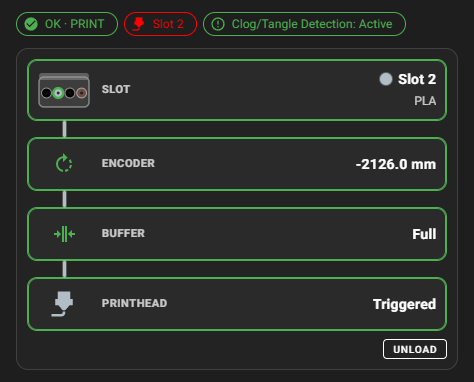
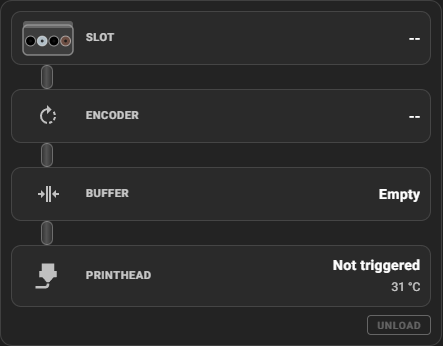
docs(k2-openhost): live filament path with PTFE tube
Document the PTFE tube that fills as far as the sensors report, the live
load/unload progress driven by the backend "operation" status, the
printhead hotend temperature and the instant printhead sensor; refresh the
filament path and panel screenshots (idle, loading, printing, unloading).

diff --git a/docs/K2_CFS.md b/docs/K2_CFS.md
@@ -54,28 +54,55 @@ Header buttons: filament library, RFID scan of all populated slots, unload, and 
 
 ## 2. Filament path
 
-| Idle                                                                                       | Printing (simulated)                                                                                     |
-| ------------------------------------------------------------------------------------------ | -------------------------------------------------------------------------------------------------------- |
-| <img src="images/k2-openhost/cfs-path-idle-wide.png" alt="Filament path idle" width="420"> | <img src="images/k2-openhost/cfs-path-printing-wide.png" alt="Filament path while printing" width="420"> |
+| Idle                                                                                                     | Loading (simulated)                                                                                        |
+| -------------------------------------------------------------------------------------------------------- | ---------------------------------------------------------------------------------------------------------- |
+| <img src="images/k2-openhost/cfs-path-idle-wide.png" alt="Filament path idle" width="420">               | <img src="images/k2-openhost/cfs-path-loading-wide.png" alt="Filament path while loading" width="420">     |
+| **Printing (simulated)**                                                                                 | **Unloading (simulated)**                                                                                  |
+| <img src="images/k2-openhost/cfs-path-printing-wide.png" alt="Filament path while printing" width="420"> | <img src="images/k2-openhost/cfs-path-unloading-wide.png" alt="Filament path while unloading" width="420"> |
 
-The path follows the filament from the CFS to the printhead, in the spirit of the _Filament Box_ widget of Jacob10383's K2 firmware. It is driven by `box.load_path`:
+The path follows the filament from the CFS to the printhead, in the spirit of the _Filament Box_ widget of Jacob10383's K2 firmware:
 
-| Stage          | Shows                                                                                                                    | Highlighted when                            |
-| -------------- | ------------------------------------------------------------------------------------------------------------------------ | ------------------------------------------- |
-| **CFS / Slot** | A CFS icon with its four bays in their real filament colours (the active bay is ringed), then the slot name and material | a slot feeds the printhead                  |
-| **Encoder**    | Feed encoder position in mm                                                                                              | the Box tracks a print                      |
-| **Buffer**     | `Empty`, `Partial` or `Full`                                                                                             | filament is in the buffer                   |
-| **Printhead**  | Nozzle icon, `Triggered` / `Not triggered`                                                                               | the printhead filament sensor sees filament |
+| Stage          | Shows                                                                                                                    | Highlighted when                               |
+| -------------- | ------------------------------------------------------------------------------------------------------------------------ | ---------------------------------------------- |
+| **CFS / Slot** | A CFS icon with its four bays in their real filament colours (the loaded bay is ringed), then the slot name and material | a slot feeds the printhead, or is being loaded |
+| **Encoder**    | Feed encoder position in mm                                                                                              | the Box tracks a print                         |
+| **Buffer**     | `Empty`, `Partial` or `Full`                                                                                             | filament is in the buffer                      |
+| **Printhead**  | Nozzle icon, `Triggered` / `Not triggered`, hotend temperature and target                                                | the printhead filament sensor sees filament    |
 
-Stages holding filament get a green outline. They are joined by a line in the loaded filament's colour, and the nozzle icon takes that colour too. Empty links are dashed, and errors turn the stage red. An **Unload** button sits under the path.
+**PTFE tube.** The stages are joined by a translucent PTFE tube. Inside it runs the filament, in the real colour of the spool, and it reaches only as far as the sensors report:
+
+- the CFS slot feeding the path fills the tube from the CFS;
+- filament in the buffer (either limit switch) fills it up to the buffer;
+- the printhead sensor fills it up to the nozzle, which also takes the filament colour.
+
+Very dark or very light filament gets a contrast outline.
+
+**Live loads and unloads.** A load can wait up to 45 s on a single CFS command, and the Box status refresh is paused during operations. The backend therefore publishes an `operation` status that changes at every step. While a load or unload runs:
+
+- a banner shows the step, for example `Loading Slot 4 · Feeding to printhead`;
+- the stage the filament is moving into pulses in the info colour;
+- the tube segment being filled or emptied is animated in the direction of travel.
+
+Steps of a full colour change, such as `flush`, appear in the banner too. The printhead stage reads the Klipper filament sensor object directly, so it changes the moment the filament arrives or leaves. Users who prefer reduced motion get a static view.
+
+| Step                        | Banner text                        | Tube                        |
+| --------------------------- | ---------------------------------- | --------------------------- |
+| `preparing`                 | Preparing                          | unchanged                   |
+| `feeding_to_buffer`         | Feeding to buffer                  | CFS → buffer filling        |
+| `feeding_to_printhead`      | Feeding to printhead               | buffer → printhead filling  |
+| `seating`, `verifying`      | Seating in the extruder, Verifying | full                        |
+| `retracting_from_printhead` | Retracting from printhead          | buffer → printhead emptying |
+| `retracting_to_cfs`         | Retracting to CFS                  | CFS → buffer emptying       |
+
+Stages holding filament get a green outline; errors turn a stage red. An **Unload** button sits under the path.
 
 The buffer value is the state of its two limit switches. Creality's firmware calls them the _empty limit_ and the _full limit_, and an idle unloaded K2 reports `2`, so the UI reads bit 0 as full and bit 1 as empty.
 
-On a narrow panel the stages stack vertically:
+On a narrow panel the stages stack vertically and the tube runs under the icons:
 
-| Idle                                                                                                  | Printing (simulated)                                                                                          |
-| ----------------------------------------------------------------------------------------------------- | ------------------------------------------------------------------------------------------------------------- |
-| <img src="images/k2-openhost/cfs-path-idle-column.png" alt="Vertical filament path idle" width="330"> | <img src="images/k2-openhost/cfs-path-printing-column.png" alt="Vertical filament path printing" width="330"> |
+| Idle                                                                                                  | Loading (simulated)                                                                                         | Printing (simulated)                                                                                          |
+| ----------------------------------------------------------------------------------------------------- | ----------------------------------------------------------------------------------------------------------- | ------------------------------------------------------------------------------------------------------------- |
+| <img src="images/k2-openhost/cfs-path-idle-column.png" alt="Vertical filament path idle" width="260"> | <img src="images/k2-openhost/cfs-path-loading-column.png" alt="Vertical filament path loading" width="260"> | <img src="images/k2-openhost/cfs-path-printing-column.png" alt="Vertical filament path printing" width="260"> |
 
 ## 3. CFS units and slot tiles
 
@@ -264,6 +291,7 @@ Fields used:
 | Field                                                                                       | Purpose                                                                                                                    |
 | ------------------------------------------------------------------------------------------- | -------------------------------------------------------------------------------------------------------------------------- |
 | `slots[]`                                                                                   | physical slots plus the external spool: presence, loaded flag, profile, colour, RFID data, remaining                       |
+| `operation`                                                                                 | running load/unload: active, kind, slot, stage, plus the change-engine step and target (_optional; newer backend_)         |
 | `boxes[]`                                                                                   | one entry per CFS: address, online, status/state codes, own temperature/humidity, slot indices (_optional; newer backend_) |
 | `temp_c`, `humidity_pct`                                                                    | environment of the box on the load path (fallback when `boxes` is missing)                                                 |
 | `load_path`                                                                                 | source slot, encoder, buffer, printhead sensor, clog detection                                                             |
@@ -273,7 +301,9 @@ Fields used:
 | `print_info`, `print_mapping`, `auto_mapping`, `print_mapping_enabled`                      | print-start mapping                                                                                                        |
 | `unload_after_print_enabled`, `rfid_insert_reading_enabled`, `rfid_startup_reading_enabled` | settings switches                                                                                                          |
 
-`boxes[]` and `BOX_SELECT_SLOT` come with the K2-OpenHost integration of Jacob10383's firmware sync 071c813 (`kalico-k2pro` branch `cfs-upstream-071c813`, pending hardware tests). The UI detects both and falls back to slot-index grouping and `T<n>` on older backends.
+The printhead stage also reads `printer.extruder` and `printer['filament_switch_sensor filament_sensor']`.
+
+`boxes[]`, `operation` and `BOX_SELECT_SLOT` come with the K2-OpenHost integration of Jacob10383's firmware sync 071c813 (`kalico-k2pro` branch `cfs-upstream-071c813`, pending hardware tests). The UI detects both and falls back to slot-index grouping and `T<n>` on older backends.
 
 ## 14. Commands sent by the UI
 

diff --git a/README.md b/README.md
@@ -48,24 +48,24 @@ This fork adds a native **Creality CFS** (Creality Filament System) panel and pr
 
 ### What it adds
 
-| Feature              | What you get                                                                                                                                                                             |
-| -------------------- | ---------------------------------------------------------------------------------------------------------------------------------------------------------------------------------------- |
-| **CFS panel**        | One section per CFS unit with its own temperature/humidity and offline state, plus the external spool. Status chips for box state, loaded slot and clog/tangle detection                 |
-| **Filament path**    | CFS → encoder → buffer → printhead, with a CFS icon in the real bay colours, a nozzle that takes the filament colour, and a filament-coloured line through the stages that hold filament |
-| **Slot tiles**       | Colour stripe, RFID remaining gauge, material, name and temperature, source badge (RFID / Library / Spoolman / Manual), active state; load, edit, RFID and reread actions                |
-| **Runout swap**      | Groups of identical spools with order, strategy and remaining filament; the group in use is marked active                                                                                |
-| **Slot editor**      | Brand → Type → Profile → Colour for non-RFID spools, with a preset palette and custom colours                                                                                            |
-| **RFID**             | Read-only tag data, per-slot reread, and a one-click flow to create a profile for an unknown tag                                                                                         |
-| **Filament library** | Read-only Creality/Generic K2-RFID catalog plus custom profiles, with search and brand/material filters                                                                                  |
-| **Print mapping**    | The Print dialog maps every slicer tool to a CFS slot (auto-map + manual choice) and starts with `BOX_PRINT_START`                                                                       |
-| **Any screen**       | Layout follows the panel width (container queries): 4, 2 or 1 tile columns, compact tiles in narrow dashboard columns, larger touch targets                                              |
-| **Several CFS**      | Up to four units, with unit-aware slot names (`Slot 3` with one CFS, `B2·S4` with several)                                                                                               |
+| Feature              | What you get                                                                                                                                                                                                                                             |
+| -------------------- | -------------------------------------------------------------------------------------------------------------------------------------------------------------------------------------------------------------------------------------------------------- |
+| **CFS panel**        | One section per CFS unit with its own temperature/humidity and offline state, plus the external spool. Status chips for box state, loaded slot and clog/tangle detection                                                                                 |
+| **Filament path**    | CFS → encoder → buffer → printhead joined by a PTFE tube with the filament inside in the real spool colour, filled as far as the sensors report and animated live during loads/unloads; CFS icon in the real bay colours, nozzle with hotend temperature |
+| **Slot tiles**       | Colour stripe, RFID remaining gauge, material, name and temperature, source badge (RFID / Library / Spoolman / Manual), active state; load, edit, RFID and reread actions                                                                                |
+| **Runout swap**      | Groups of identical spools with order, strategy and remaining filament; the group in use is marked active                                                                                                                                                |
+| **Slot editor**      | Brand → Type → Profile → Colour for non-RFID spools, with a preset palette and custom colours                                                                                                                                                            |
+| **RFID**             | Read-only tag data, per-slot reread, and a one-click flow to create a profile for an unknown tag                                                                                                                                                         |
+| **Filament library** | Read-only Creality/Generic K2-RFID catalog plus custom profiles, with search and brand/material filters                                                                                                                                                  |
+| **Print mapping**    | The Print dialog maps every slicer tool to a CFS slot (auto-map + manual choice) and starts with `BOX_PRINT_START`                                                                                                                                       |
+| **Any screen**       | Layout follows the panel width (container queries): 4, 2 or 1 tile columns, compact tiles in narrow dashboard columns, larger touch targets                                                                                                              |
+| **Several CFS**      | Up to four units, with unit-aware slot names (`Slot 3` with one CFS, `B2·S4` with several)                                                                                                                                                               |
 
 ### Screenshots
 
-| Filament path while printing                                                                   | Slot tile states                                                                     |
-| ---------------------------------------------------------------------------------------------- | ------------------------------------------------------------------------------------ |
-| <img src="docs/images/k2-openhost/cfs-path-printing-wide.png" alt="Filament path" width="400"> | <img src="docs/images/k2-openhost/cfs-slot-states.png" alt="Slot tiles" width="400"> |
+| Filament path while loading                                                                                 | Slot tile states                                                                     |
+| ----------------------------------------------------------------------------------------------------------- | ------------------------------------------------------------------------------------ |
+| <img src="docs/images/k2-openhost/cfs-path-loading-wide.png" alt="Filament path while loading" width="400"> | <img src="docs/images/k2-openhost/cfs-slot-states.png" alt="Slot tiles" width="400"> |
 
 | Runout swap groups                                                                     | Print dialog mapping                                                                     |
 | -------------------------------------------------------------------------------------- | ---------------------------------------------------------------------------------------- |
